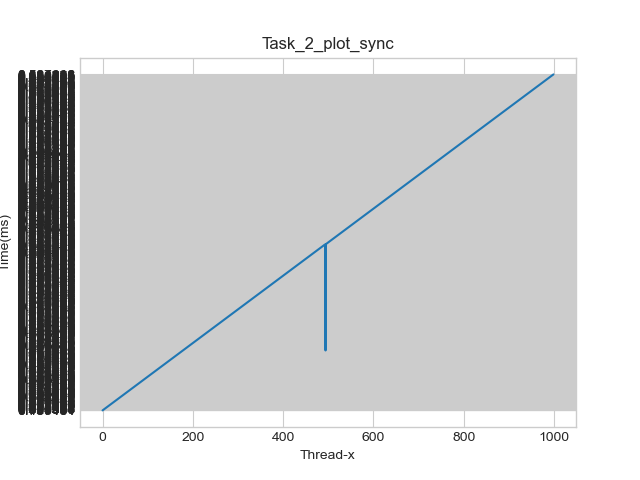
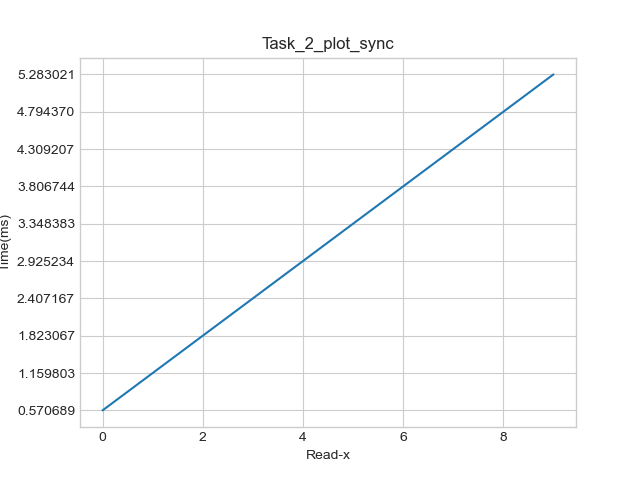
Graphs for task2 done

diff --git a/assignment1/task2.c b/assignment1/task2.c
@@ -7,12 +7,16 @@
 #include <sys/stat.h>
 #include <sys/time.h>
 #include <fcntl.h>
+#include <pthread.h>
+#include <errno.h>
+#include "task2.h"
 
 char newline[] = "\n";
 #define MM 1000000
 
 int main(){
-	for (int k = 0; k < 100000; k++) {
+
+	for (int k = 0; k < 10000; k++) {
 		char filename[20];
 		sprintf(filename, "junkfile%d", k);		
 
@@ -35,6 +39,64 @@ int main(){
 	}
 	//printf("Done with file generation...\n\n");
 	//Tests
+	int sequential = 0;
+	int ptr;
+	int readsize = 1000;
+	char linee[readsize];
+
+	if (!sequential) {
+
+		int nrthr = 100;
+		pthread_t threads[nrthr + 1];
+		threads[0] = pthread_self();
+		int num_subthreads = nrthr - 1;
+
+		for (int i = 0; i < num_subthreads; i++) {
+
+			if (pthread_create(&threads[i + 1], NULL, &read_function, NULL) != 0) {
+				perror("pthread:");
+			}
+		}
+
+		for (int i = 0; i < num_subthreads; i++) {
+
+			if (pthread_join(threads[i + 1], NULL) != 0) {
+				perror("pthread:");
+			} 
+		}
+
+	} else {
+
+		int* rnumbers = malloc(sizeof(int)*MM);
+		int* snumbers = malloc(sizeof(int)*MM);
+		srandom(47);
+
+		for (int i = 0; i < MM; i++) {
+			double r = (((double) rand()) / ((double)RAND_MAX));
+			rnumbers[i] =(int) (r*MM / 1001);
+		}
+		for (int i = 0; i < 1000; i++) {
+			for (int j = 0; j < 1000; j++) {
+				snumbers[i*1000 + j] = i;
+			}
+		}
+
+		for (int i = 0; i < 100000; i++) {
+			int index = rnumbers[i];
+			char str[20];
+			sprintf(str, "junkfile%d", index);
+			//fp = fopen(str, "r");
+			//fread(linee, 1, readsize, fp);
+			//fclose(fp);
+			ptr = open(str, O_RDONLY);
+			read(ptr, linee, readsize);
+			close(ptr);
+		}
+	}
+}
+
+void *read_function(void *placeholder) {
+
 	int* rnumbers = malloc(sizeof(int)*MM);
 	int* snumbers = malloc(sizeof(int)*MM);
 	srandom(47);
@@ -48,48 +110,19 @@ int main(){
 			snumbers[i*1000 + j] = i;
 		}
 	}
-	
-	int sequential = 1;
-	//FILE* fp;
+
 	int ptr;
 	int readsize = 1000;
 	char linee[readsize];
 
-	if (sequential) {
-		struct timeval starttime;
-		gettimeofday(&(starttime), NULL);
-		struct timeval t0 = starttime;
-		struct timeval t1, dt;
-		
-		for (int j = 0; j < 1000; j++) {
-
-			for (int i = 0; i < 1000; i++) {
-				int index = snumbers[i];
-				char str[20];
-				sprintf(str, "junkfile%d", index);
-				//fp = fopen(str, "r");
-				ptr = open(str, O_RDONLY);
-				//fread(linee, 1, readsize, fp);
-				read(ptr, linee, readsize);
-				//fclose(fp);
-				close(ptr);
-			}
-		}
-		gettimeofday(&t1, NULL);
-		timersub(&t1, &t0, &dt);
-
-		fprintf(stdout, "%ld.%06ld\n", dt.tv_sec, dt.tv_usec);
-	} else {
-		for (int i = 0; i < MM; i++) {
-			int index = rnumbers[i];
-			char str[20];
-			sprintf(str, "junkfile%d", index);
-			//fp = fopen(str, "r");
-			//fread(linee, 1, readsize, fp);
-			//fclose(fp);
-			ptr = open(str, O_RDONLY);
-			read(ptr, linee, readsize);
-			close(ptr);
-		}
+	for (int i = 0; i < 1000; i++) {
+		int index = snumbers[i];
+		char str[20];
+		sprintf(str, "junkfile%d", index);
+		ptr = open(str, O_RDONLY);
+		read(ptr, linee, readsize);
+		close(ptr);
 	}
+
+	return 0;
 }

diff --git a/assignment1/plot2.py b/assignment1/plot2.py
@@ -4,27 +4,28 @@ import matplotlib as mpl
 import matplotlib.pyplot as plt
 import subprocess
 import numpy as np
-
 import random
 import collections
 
 PROGRAMNAME = "./task2"
-GRAPHX = "Thread-x"
+GRAPHX = "Read-x"
 GRAPHY = "Time(ms)"
-PLOTNAME = "Task_2_plot_sync"
+PLOTNAME = "Task_2_Plot_Threaded"
 FILENAME = PLOTNAME + ".png"
 
 #iteration param not used
 def run_tests(iterations):
-    print("Running program: " + PROGRAMNAME + " with options ")
-    #command = ["/usr/bin/time", "-f", "%e", PROGRAMNAME]
-    command = [PROGRAMNAME]
-    pipe = subprocess.Popen(command, stdout=subprocess.PIPE, stderr=subprocess.PIPE)
-    stdout, stderr = pipe.communicate()
-    out_lines = stdout.decode("utf-8").splitlines()
-    err_lines = stderr.decode("utf-8").splitlines()
+    out = list()
 
-    return out_lines, err_lines
+    for i in range(0, iterations):
+        start_time = time.time()
+        print("Running program: " + PROGRAMNAME + " with options ")
+        #command = ["/usr/bin/time", "-f", "%e", PROGRAMNAME]
+        command = [PROGRAMNAME]
+        pipe = subprocess.Popen(command, stdout=subprocess.PIPE, stderr=subprocess.PIPE)
+        pipe.wait()
+        out.append(time.time() - start_time)
+    return out
     
 
 
@@ -40,7 +41,7 @@ def make_and_save_plot(data,  plotfilename):
     plt.savefig(plotfilename)
 
 
-out, err = run_tests(10)
+out = run_tests(10)
 print(out)
-print(err)
-make_and_save_plot([range(0,600, 100), out], FILENAME)
+out.sort()
+make_and_save_plot([list(range(0,len(out))), out], FILENAME)

diff --git a/assignment1/plot.py b/assignment1/plot.py
@@ -1,4 +1,5 @@
 #!/usr/bin/python3
+from mailbox import linesep
 import time
 import matplotlib as mpl
 import matplotlib.pyplot as plt
@@ -43,4 +44,4 @@ def make_and_save_plot(data,  plotfilename):
 out, err = run_tests(10)
 print(out)
 print(err)
-make_and_save_plot([list(range(0,len(out))), range(0, out, 0.05)], FILENAME)
+make_and_save_plot([list(range(0,len(out))), np.linespace(0, out)], FILENAME)

diff --git a/assignment1/task2.h b/assignment1/task2.h
@@ -1,0 +1,1 @@
+void *read_function(void *placeholder);
